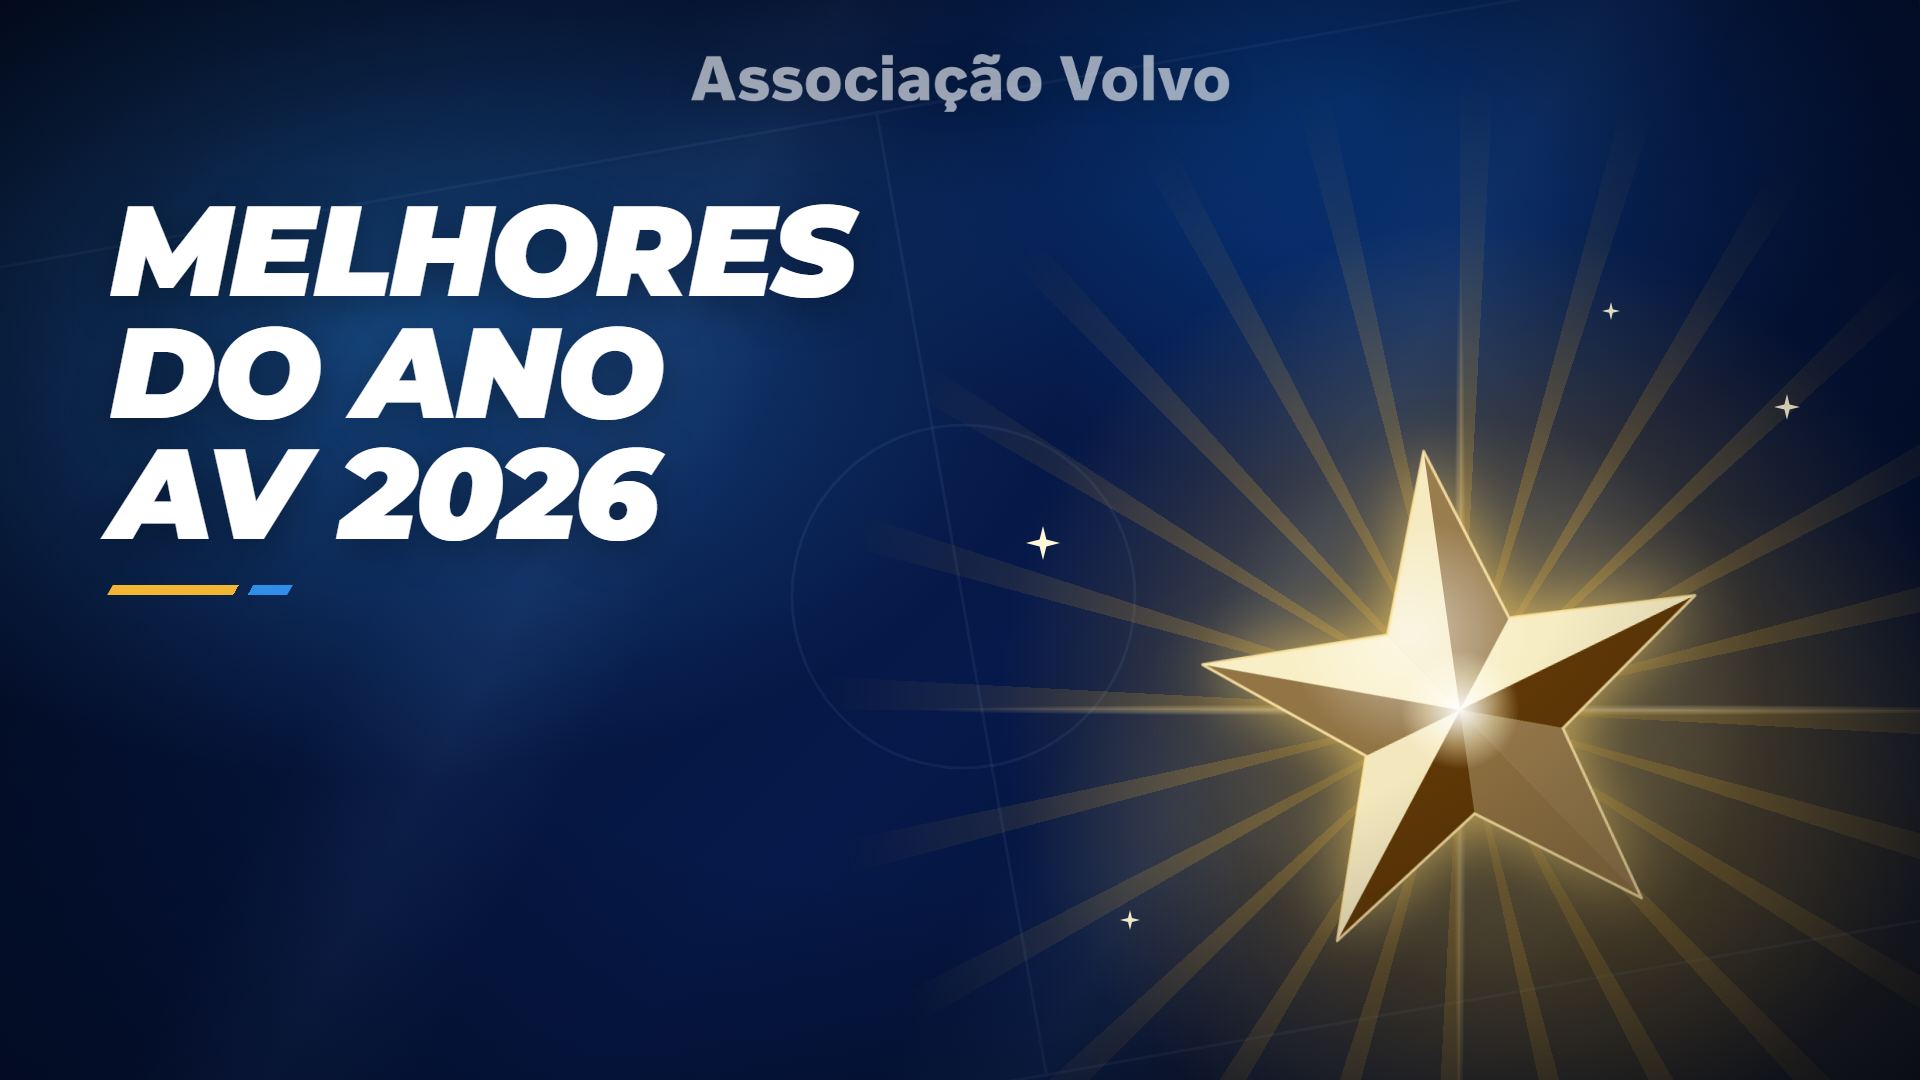
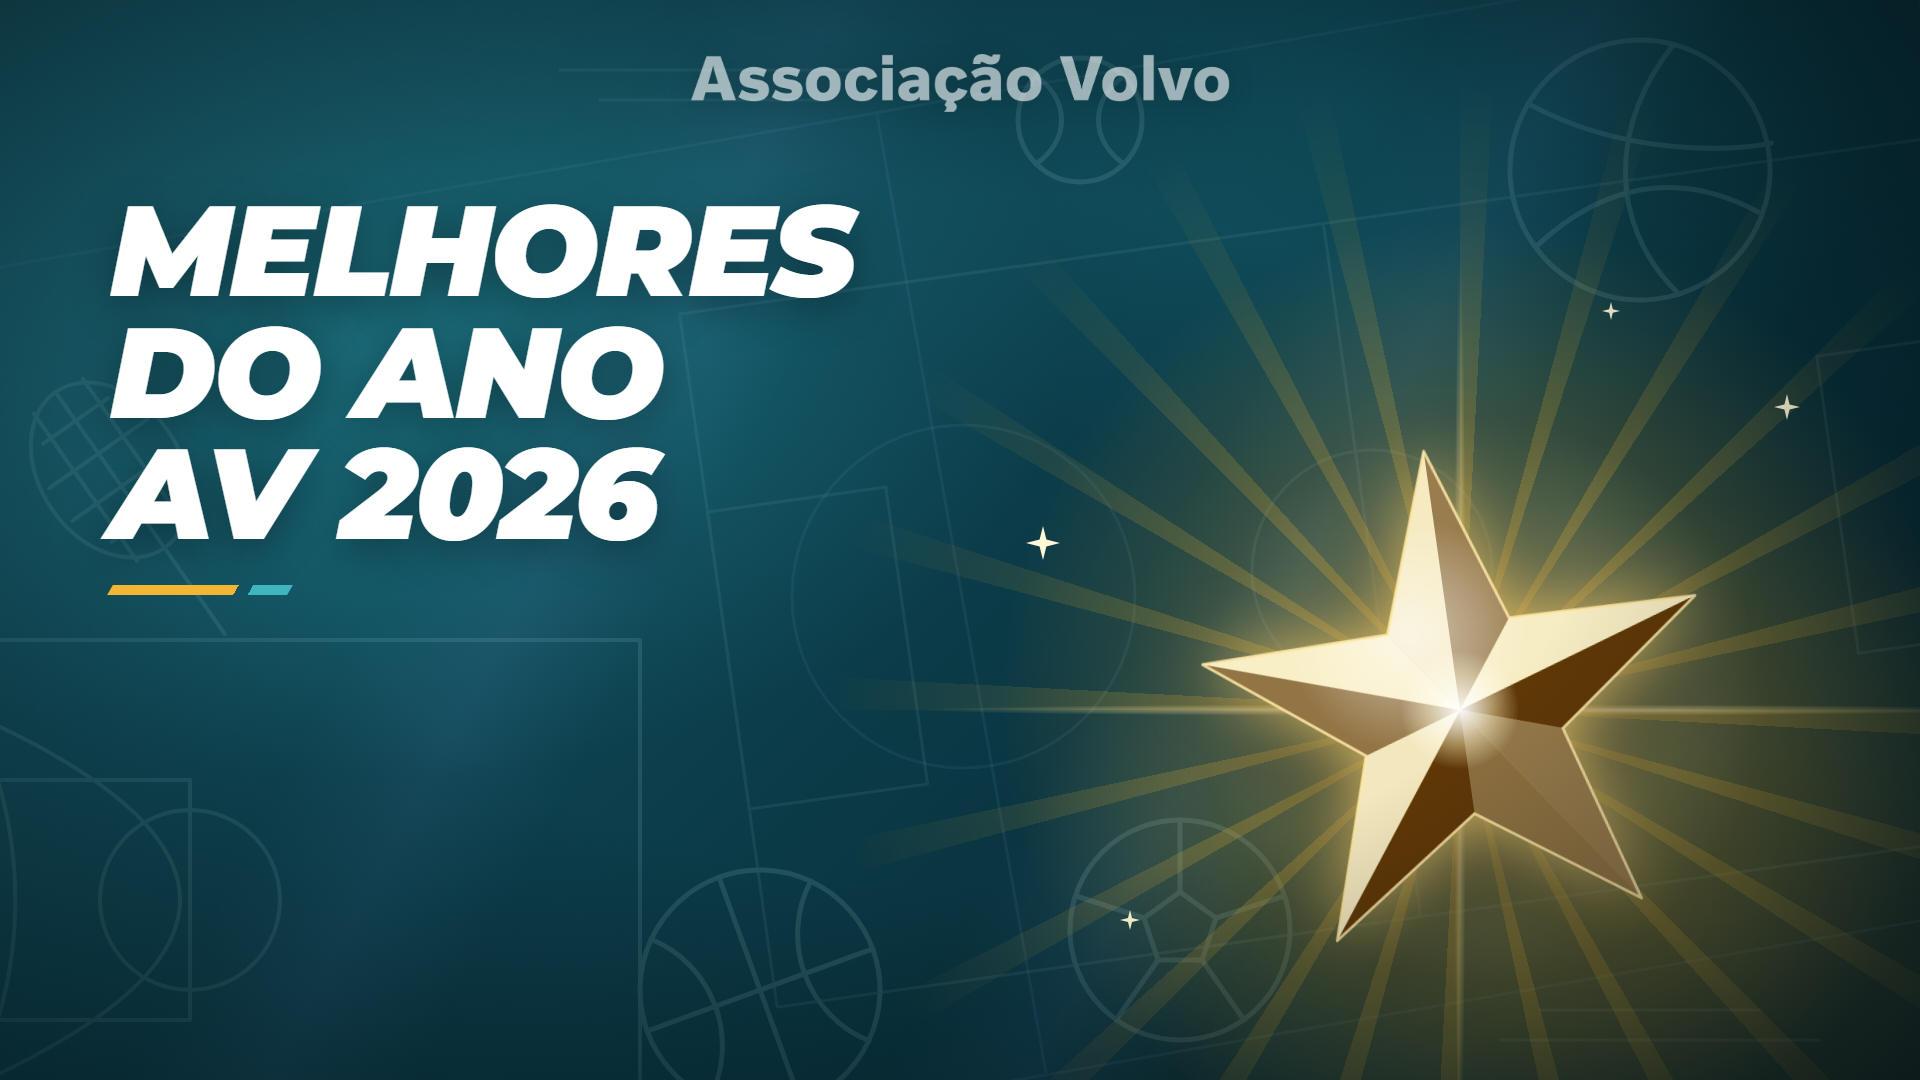
Prévias: degradê azul-petróleo e desenhos de esporte transparentes ao fundo (Opção 2 e artes)

diff --git a/css/opcao2.css b/css/opcao2.css
@@ -5,21 +5,23 @@
    Usa o mesmo conteúdo (js/data.js) da apresentação principal.
    ========================================================= */
 :root {
-  --navy: #0b0d12;
-  --glass: #151a24;
+  --navy: #04181f;
+  --glass: rgba(6, 36, 46, .85);
   --line: rgba(242, 182, 50, .22);
   --muted: rgba(235, 228, 210, .7);
   --title: 'Anton', 'Montserrat', Impact, sans-serif;
 }
-html, body { background: #07080c; }
+html, body { background: #04181f; }
 #bg { display: none; }
 body::before { content: ''; position: fixed; inset: 0; pointer-events: none;
   background:
     radial-gradient(60% 70% at 85% 15%, rgba(242,182,50,.16), transparent 60%),
-    radial-gradient(50% 60% at 10% 95%, rgba(47,143,232,.12), transparent 60%),
-    linear-gradient(160deg, #10131b 0%, #07080c 60%, #0c0e14 100%); }
-body::after { content: ''; position: fixed; inset: 0; pointer-events: none; opacity: .05;
-  background: repeating-linear-gradient(90deg, #fff 0 1px, transparent 1px 120px), repeating-linear-gradient(0deg, #fff 0 1px, transparent 1px 120px); }
+    radial-gradient(55% 65% at 15% 90%, rgba(40,160,170,.28), transparent 60%),
+    linear-gradient(155deg, #1a6474 0%, #0e4351 35%, #08303b 65%, #041c24 100%); }
+/* desenhos de esporte transparentes ao fundo (bolas, quadra, campo, raquete) */
+body::after { content: ''; position: fixed; inset: 0; pointer-events: none; opacity: .11;
+  background: url('../img/esportes-fundo.svg') center / cover no-repeat; animation: o2drift 40s ease-in-out infinite alternate; }
+@keyframes o2drift { from { transform: scale(1); } to { transform: scale(1.06) translate(-1%, -1%); } }
 
 /* Títulos: condensados, retos, com barra dourada */
 .h1, .h2, .teamname { font-family: var(--title); font-weight: 400; font-style: normal; letter-spacing: .01em; line-height: 1; }
@@ -44,10 +46,10 @@ body::after { content: ''; position: fixed; inset: 0; pointer-events: none; opac
 .item, .stat, .runner, .plate2, .members span, .stagepill { border-radius: 6px; backdrop-filter: none; }
 .item { background: var(--glass); border: 1px solid rgba(255,255,255,.07); border-left: 6px solid var(--gold); }
 .item.plain { padding-left: 34px; } .item.plain::before { display: none; }
-.stat { background: linear-gradient(160deg, #1a1f2b, #11141c); border: 0; border-top: 6px solid var(--gold); }
+.stat { background: linear-gradient(160deg, #0f4655, #0a2f3a); border: 0; border-top: 6px solid var(--gold); }
 .stat::after { background: radial-gradient(circle, rgba(242,182,50,.18), transparent 70%); }
 .stat b { font-family: var(--title); font-weight: 400; font-size: 128px; }
-.ic.sport { border-radius: 8px; background: #0b0d12; }
+.ic.sport { border-radius: 8px; background: #04181f; }
 .thumb.ph { border-radius: 6px !important; }
 .cta { border-radius: 6px; transform: skewX(-10deg); }
 .cta i { border-radius: 4px; }
@@ -58,8 +60,8 @@ body::after { content: ''; position: fixed; inset: 0; pointer-events: none; opac
 .cpphoto img, .teamframe img { border-radius: 0; }
 
 /* Placas de campeão */
-.plate2 { background: linear-gradient(90deg, #1b1f29, #12151d); border: 0; border-left: 8px solid var(--gold); }
-.plate2.silver { background: linear-gradient(90deg, #1b1f29, #12151d); border-left-color: var(--silver); }
+.plate2 { background: linear-gradient(90deg, #0f4655, #0a2f3a); border: 0; border-left: 8px solid var(--gold); }
+.plate2.silver { background: linear-gradient(90deg, #0f4655, #0a2f3a); border-left-color: var(--silver); }
 .plate2 .nm { font-family: var(--title); font-weight: 400; font-style: normal; letter-spacing: .02em; }
 .plate2 .lbl { border-radius: 2px; transform: skewX(-12deg); }
 .stagepill { background: var(--gold); color: #0b0d12; border: 0; transform: skewX(-12deg); }
@@ -72,8 +74,8 @@ body::after { content: ''; position: fixed; inset: 0; pointer-events: none; opac
 /* Aberturas */
 .t-divider .bgimg { opacity: .22; filter: grayscale(.6) contrast(1.1); }
 .t-divider .sub { border-radius: 4px; background: var(--gold); color: #0b0d12; box-shadow: none; transform: skewX(-10deg); }
-.mlist { border-radius: 6px; background: rgba(11,13,18,.8); border: 0; border-top: 6px solid var(--gold); }
-.mlist span { border-radius: 4px; font-family: var(--title); font-weight: 400; letter-spacing: .03em; background: #151a24; border: 0; }
+.mlist { border-radius: 6px; background: rgba(4,28,36,.82); border: 0; border-top: 6px solid var(--gold); }
+.mlist span { border-radius: 4px; font-family: var(--title); font-weight: 400; letter-spacing: .03em; background: rgba(8,44,55,.9); border: 0; }
 
 /* Corrida e equipes */
 .racecol h3 { font-family: var(--title); font-weight: 400; }

diff --git a/artes/arte-base.css b/artes/arte-base.css
@@ -1,12 +1,12 @@
 /* Artes "Melhores do Ano AV 2026" — 1920 × 1080 */
 * { margin: 0; padding: 0; box-sizing: border-box; }
-html, body { width: 1920px; height: 1080px; overflow: hidden; background: #04122e; font-family: 'Montserrat', Arial, sans-serif; color: #fff; }
+html, body { width: 1920px; height: 1080px; overflow: hidden; background: #062a33; font-family: 'Montserrat', Arial, sans-serif; color: #fff; }
 .art { position: relative; width: 1920px; height: 1080px; overflow: hidden;
   background:
-    radial-gradient(55% 65% at 20% 30%, rgba(47,143,232,.45), transparent 65%),
+    radial-gradient(55% 65% at 20% 30%, rgba(40,150,165,.45), transparent 65%),
     radial-gradient(50% 60% at 85% 85%, rgba(242,182,50,.22), transparent 65%),
-    radial-gradient(40% 50% at 70% 10%, rgba(10,78,163,.6), transparent 70%),
-    linear-gradient(135deg, #030c22 0%, #06194a 55%, #020a1d 100%); }
+    radial-gradient(40% 50% at 70% 10%, rgba(20,100,115,.55), transparent 70%),
+    linear-gradient(135deg, #1a6474 0%, #0e4351 40%, #08303b 70%, #041c24 100%); }
 /* linhas de quadra discretas */
 .court { position: absolute; left: 50%; top: 55%; width: 2100px; height: 980px; margin: -490px 0 0 -1050px; transform: rotate(-10deg);
   border: 3px solid rgba(160,205,255,.07); }
@@ -14,11 +14,13 @@ html, body { width: 1920px; height: 1080px; overflow: hidden; background: #04122
 .court::after { content: ''; position: absolute; left: 50%; top: 50%; width: 340px; height: 340px; margin: -170px; border-radius: 50%; border: 3px solid rgba(160,205,255,.07); }
 .streak { position: absolute; top: -200px; width: 260px; height: 1500px; transform: rotate(28deg);
   background: linear-gradient(90deg, transparent, rgba(120,180,255,.07), transparent); }
-.vignette { position: absolute; inset: 0; pointer-events: none; background: radial-gradient(ellipse at center, transparent 45%, rgba(0,4,14,.55)); }
+/* desenhos de esporte transparentes (bolas, quadra, campo, raquete) */
+.sports-bg { position: absolute; inset: 0; background: url('../img/esportes-fundo.svg') center / cover no-repeat; opacity: .13; }
+.vignette { position: absolute; inset: 0; pointer-events: none; background: radial-gradient(ellipse at center, transparent 45%, rgba(2,14,18,.55)); }
 /* título no canto superior esquerdo */
 .title { position: absolute; left: 110px; top: 190px; z-index: 3; font-weight: 900; font-style: italic; text-transform: uppercase;
   font-size: 128px; line-height: .95; letter-spacing: -.02em; text-shadow: 0 10px 40px rgba(0,0,0,.35); }
 .title .av { display: block; color: #fff; }
-.title .bar { display: block; width: 180px; height: 10px; margin: 30px 0 0; background: linear-gradient(90deg, #f2b632 0 70%, transparent 70% 78%, #2f8fe8 78%); transform: skewX(-30deg); }
+.title .bar { display: block; width: 180px; height: 10px; margin: 30px 0 0; background: linear-gradient(90deg, #f2b632 0 70%, transparent 70% 78%, #3fb5bf 78%); transform: skewX(-30deg); }
 /* logo no meio, em cima — mais forte que nos slides */
 .logo { position: absolute; left: 50%; top: 54px; transform: translateX(-50%); height: 58px; opacity: .6; z-index: 3; filter: drop-shadow(0 2px 14px rgba(0,0,0,.35)); }

diff --git a/artes/arte-trofeu.html b/artes/arte-trofeu.html
@@ -9,7 +9,7 @@
   .trophy { position: absolute; right: -40px; bottom: -60px; width: 1150px; height: 1000px;
     background: url('../img/parabens.jpg') 86% 20% / 1460px auto no-repeat; filter: saturate(1.2) contrast(1.1) brightness(.92);
     -webkit-mask-image: radial-gradient(closest-side at 62% 52%, #000 50%, transparent 100%); mask-image: radial-gradient(closest-side at 62% 52%, #000 50%, transparent 100%); }
-  .tint { position: absolute; inset: 0; background: linear-gradient(105deg, rgba(4,18,46,.9) 36%, rgba(4,18,46,.3) 62%, rgba(4,18,46,.05) 80%); }
+  .tint { position: absolute; inset: 0; background: linear-gradient(105deg, rgba(5,32,40,.45) 36%, rgba(5,32,40,.2) 62%, rgba(5,32,40,0) 80%); }
   /* medalhas */
   .medal { position: absolute; z-index: 2; border-radius: 50%; display: grid; place-content: center; text-align: center; font-weight: 900; font-style: italic;
     box-shadow: 0 18px 40px rgba(0,0,0,.5), 0 0 0 8px rgba(255,255,255,.14), inset 0 -10px 24px rgba(0,0,0,.25), inset 0 8px 18px rgba(255,255,255,.55); }
@@ -19,10 +19,10 @@
   .silver { right: 1075px; bottom: 70px; width: 160px; height: 160px; font-size: 64px; color: #1f2a38;
     background: radial-gradient(circle at 35% 30%, #fff, #c9d3e0 45%, #7c8796); }
   .ribbon { position: absolute; z-index: 1; width: 64px; height: 200px;
-    background: linear-gradient(90deg, #0a4ea3 0 34%, #f2b632 34% 66%, #0a4ea3 66%); box-shadow: 0 6px 16px rgba(0,0,0,.4); }
+    background: linear-gradient(90deg, #0e4f5e 0 34%, #f2b632 34% 66%, #0e4f5e 66%); box-shadow: 0 6px 16px rgba(0,0,0,.4); }
 </style></head>
 <body><div class="art">
-  <div class="court"></div><div class="streak" style="left:420px"></div>
+  <div class="sports-bg"></div><div class="court"></div><div class="streak" style="left:420px"></div>
   <div class="glow"></div>
   <div class="trophy"></div>
   <div class="tint"></div>

diff --git a/artes/arte-estrela.html b/artes/arte-estrela.html
@@ -19,7 +19,7 @@
   .spark { position: absolute; background: #fff7d6; clip-path: polygon(50% 0, 60% 40%, 100% 50%, 60% 60%, 50% 100%, 40% 60%, 0 50%, 40% 40%); filter: drop-shadow(0 0 8px #ffe08a); }
 </style></head>
 <body><div class="art">
-  <div class="court"></div><div class="streak" style="left:420px"></div><div class="streak" style="left:1180px"></div>
+  <div class="sports-bg"></div><div class="court"></div><div class="streak" style="left:420px"></div><div class="streak" style="left:1180px"></div>
   <div class="glow"></div><div class="rays"></div>
   <div class="flare h"></div><div class="flare v"></div>
   <div id="star"></div>
